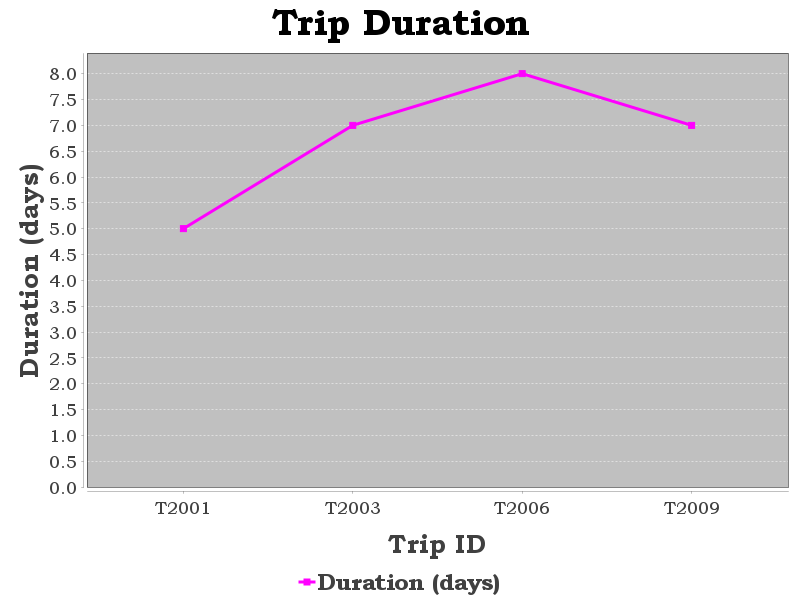
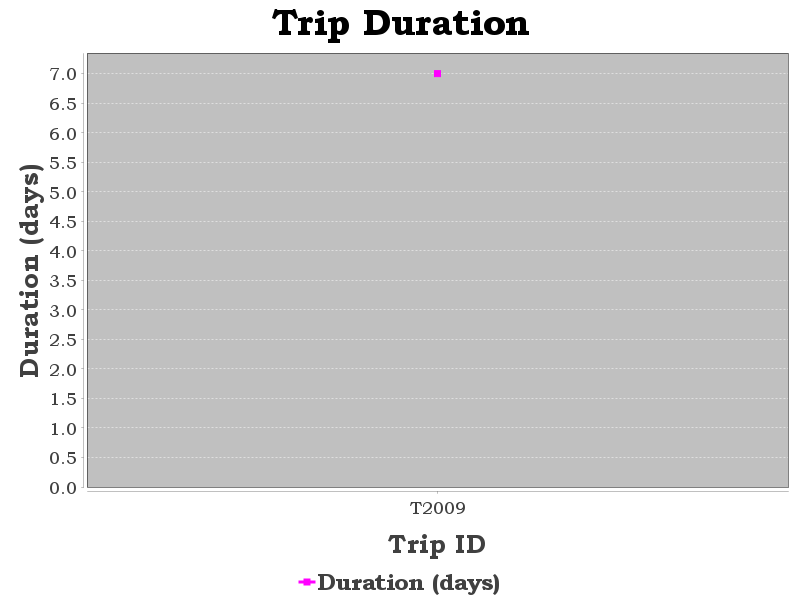
Submit

diff --git a/A3_249/output/dashboard/dashboard.html b/A3_249/output/dashboard/dashboard.html
@@ -10,32 +10,26 @@
     <div class='container'>
         <header>
             <h1>SmartTravel Dashboard</h1>
-            <p>A2: File I/O + Exceptions | 9 Clients | 4 Trips</p>
+            <p>A2: File I/O + Exceptions | 8 Clients | 1 Trips</p>
         </header>
         <section class='data-section'>
-            <h2> Clients (9)</h2>
+            <h2> Clients (8)</h2>
             <table>
                 <thead>
                     <tr><th>ID</th><th>Name</th><th>Email</th><th>Total Spent ($)</th></tr>
                 </thead>
                 <tbody>
                     <tr>
-                        <td><strong>C1001</strong></td>
-                        <td>Sophia Rossi</td>
-                        <td>sophia.rossi@italy.com</td>
-                        <td style='font-weight: bold; color: #388e3c;'>2,540.00</td>
-                    </tr>
-                    <tr>
                         <td><strong>C1002</strong></td>
                         <td>Carlos Silva</td>
                         <td>carlos.silva@brazil.com</td>
-                        <td style='font-weight: bold; color: #388e3c;'>602.25</td>
+                        <td style='font-weight: bold; color: #388e3c;'>0.00</td>
                     </tr>
                     <tr>
                         <td><strong>C1003</strong></td>
                         <td>Aiko Tanaka</td>
                         <td>aiko.tanaka@japan.com</td>
-                        <td style='font-weight: bold; color: #d32f2f;'>3,953.00</td>
+                        <td style='font-weight: bold; color: #388e3c;'>0.00</td>
                     </tr>
                     <tr>
                         <td><strong>C1004</strong></td>
@@ -77,33 +71,12 @@
             </table>
         </section>
         <section class='data-section'>
-            <h2> Trips (4)</h2>
+            <h2> Trips (1)</h2>
             <table>
                 <thead>
                     <tr><th>ID</th><th>Client</th><th>Destination</th><th>Days</th><th>Price</th></tr>
                 </thead>
                 <tbody>
-                    <tr>
-                        <td><strong>T2001</strong></td>
-                        <td>C1001</td>
-                        <td>Paris</td>
-                        <td>5</td>
-                        <td>$2540.00</td>
-                    </tr>
-                    <tr>
-                        <td><strong>T2003</strong></td>
-                        <td>C1002</td>
-                        <td>Venice</td>
-                        <td>7</td>
-                        <td>$602.25</td>
-                    </tr>
-                    <tr>
-                        <td><strong>T2006</strong></td>
-                        <td>C1003</td>
-                        <td>Tokyo</td>
-                        <td>8</td>
-                        <td>$3953.00</td>
-                    </tr>
                     <tr>
                         <td><strong>T2009</strong></td>
                         <td>C1007</td>
@@ -132,23 +105,23 @@
             </div>
         </section>
         <section class='stats-section'>
-            <h2>Quick Stats (4 Trips)</h2>
+            <h2>Quick Stats (1 Trips)</h2>
             <div class='stat-grid'>
                 <div class='stat-item'>
                     <span class='stat-label'>Avg Trip Cost</span>
-                    <span class='stat-value'>$2,701</span>
+                    <span class='stat-value'>$3,708</span>
                 </div>
                 <div class='stat-item'>
                     <span class='stat-label'>Avg Duration</span>
-                    <span class='stat-value'>6.8 days</span>
+                    <span class='stat-value'>7.0 days</span>
                 </div>
                 <div class='stat-item'>
                     <span class='stat-label'>Total Revenue</span>
-                    <span class='stat-value'>$10,803</span>
+                    <span class='stat-value'>$3,708</span>
                 </div>
                 <div class='stat-item'>
                     <span class='stat-label'>Most Visited</span>
-                    <span class='stat-value'>Paris<br><small>(1 trips)</small></span>
+                    <span class='stat-value'>Rome<br><small>(1 trips)</small></span>
                 </div>
             </div>
         </section>

diff --git a/A3_249/src/service/SmartTravelService.java b/A3_249/src/service/SmartTravelService.java
@@ -1061,10 +1061,17 @@ import travel_package.Trip;
 			Predicate<Trip> destinationString = t -> t.getDestination().equalsIgnoreCase(userInputDestination);
 			tripFiltered = tripsRepo.filter(destinationString);
 			
+			
+			boolean found = false;
 			for(Trip t : tripFiltered) {
+				found = true;
 				System.out.print("\nFiltered Trip for destination: " + userInputDestination);
 				System.out.println("\n-----------------" + t.toString() + "\n-----------------");
 				recentTrips.addRecent(t);
+			}
+			
+			if(!found) {
+				System.out.println("There are no destinations for the trip: " + userInputDestination);
 			}
 				
 		}
